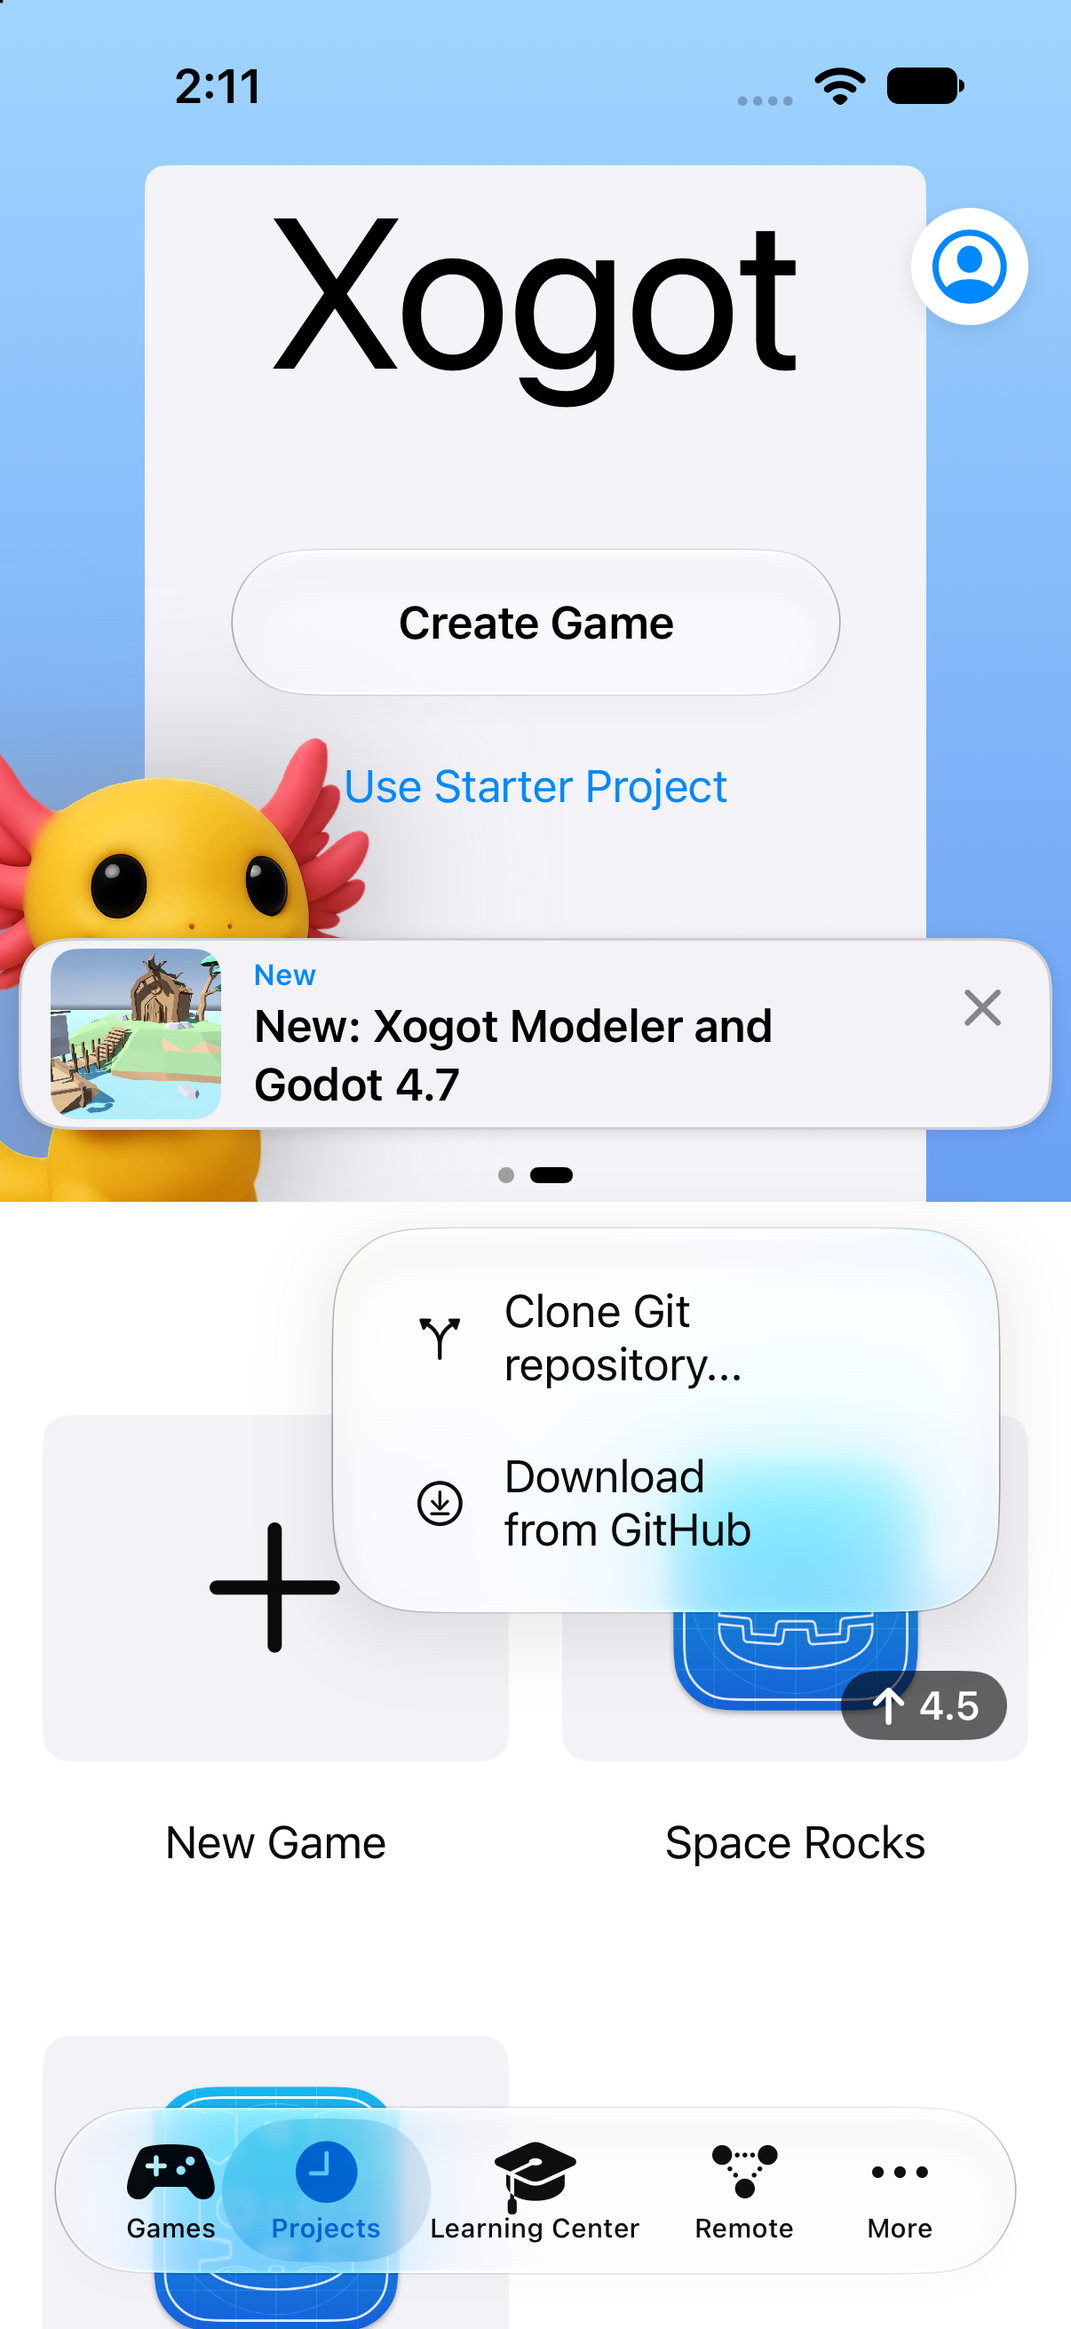
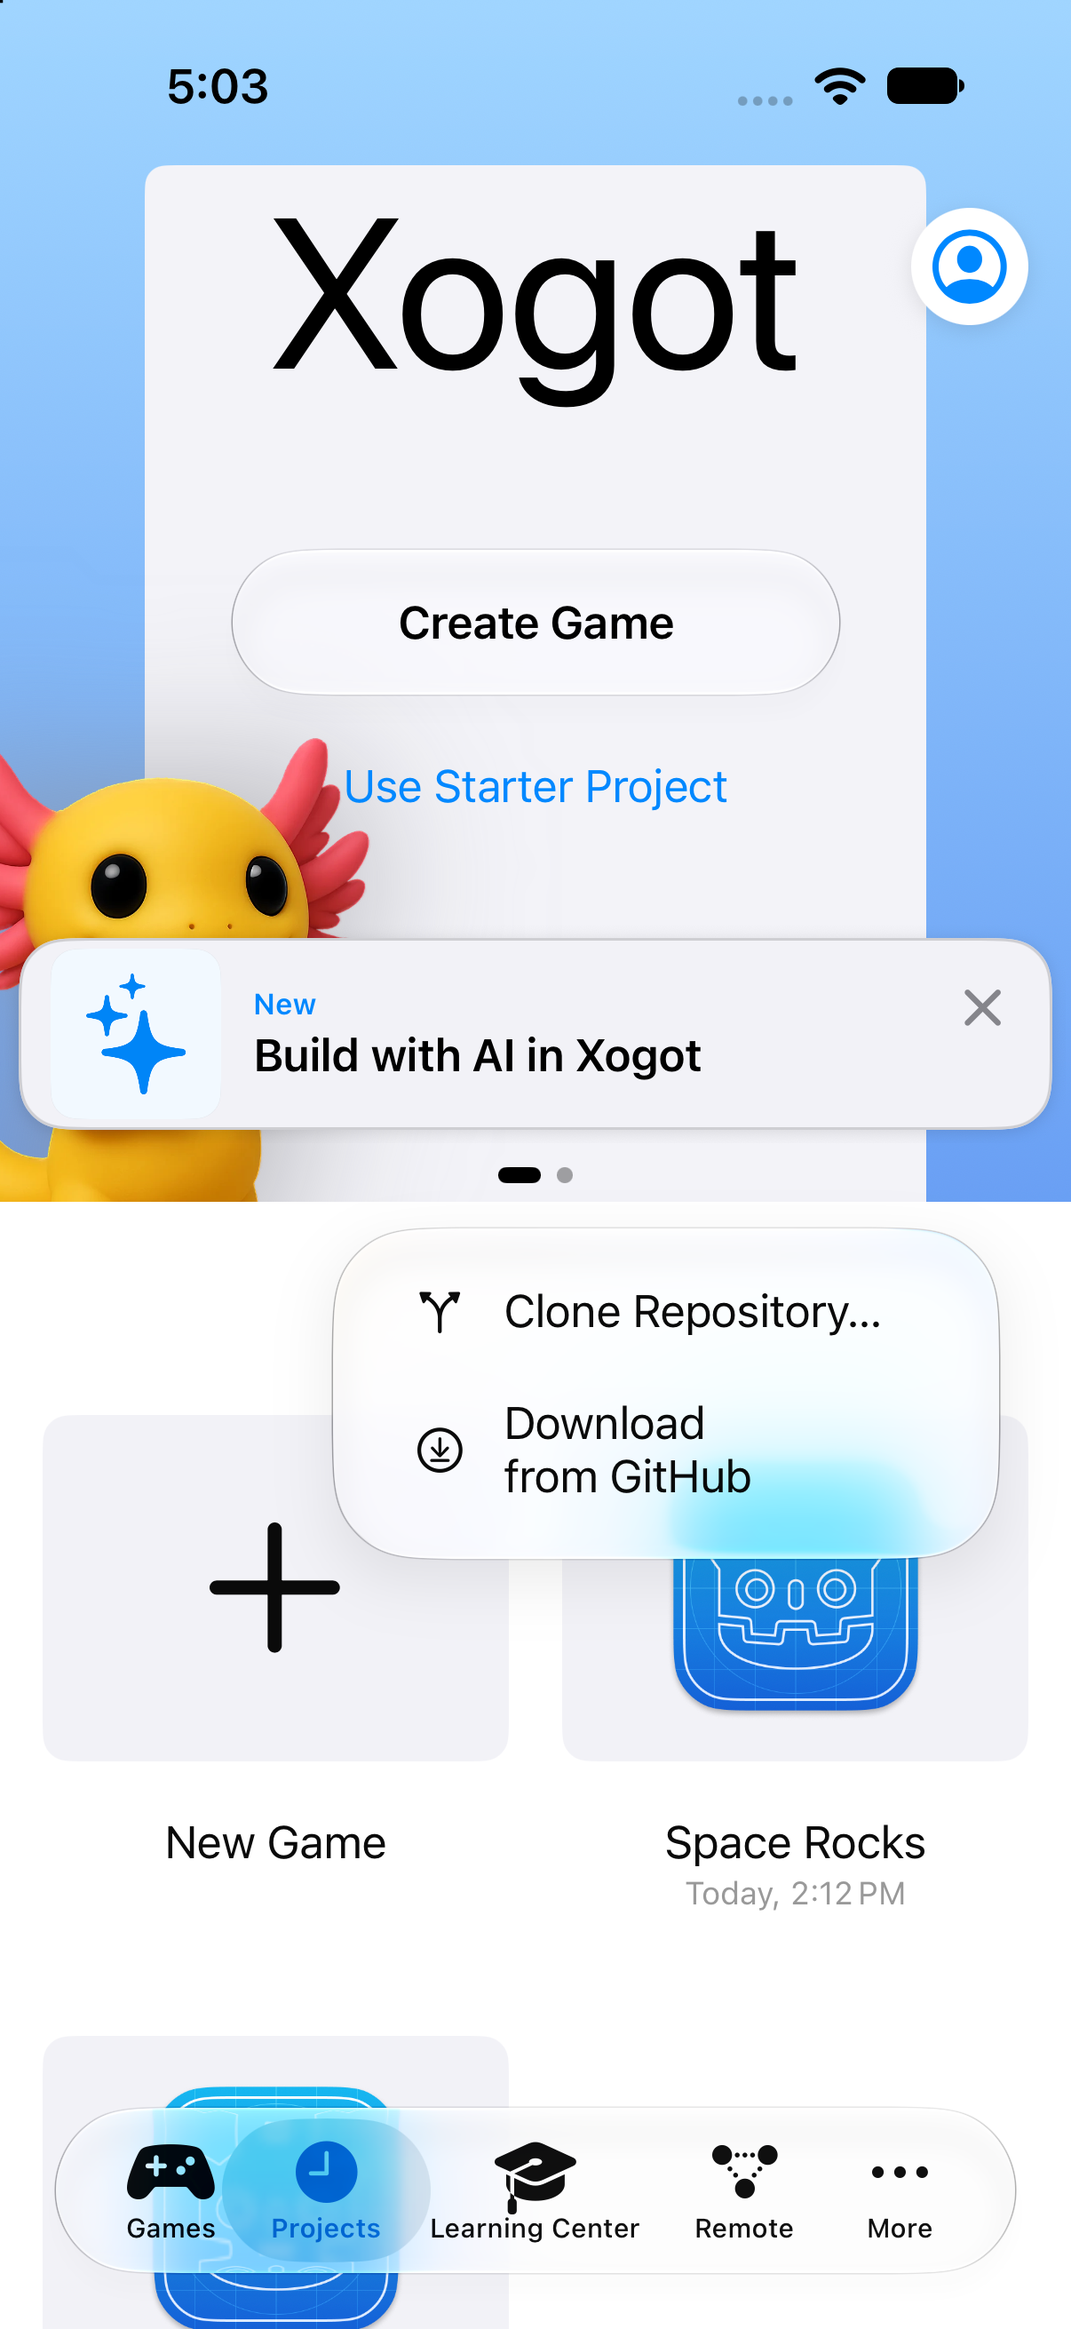
Update docs images

diff --git a/Documentation.docc/iOSSourceControl.md b/Documentation.docc/iOSSourceControl.md
@@ -83,9 +83,10 @@ identity before your first commit:
 3. In **Committer Identity**, type your name and email address.
 4. Tap **Save Identity**.
 
-Xogot uses this identity for all repositories on this device. If you commit
-and there is no identity, Xogot asks for your name and email. Then it saves
-them and makes the commit.
+Xogot uses this identity for all repositories on this device. If there is no
+identity, the commit composer shows **No committer identity** and a **Set…**
+button. If you commit and there is no identity, Xogot asks for your name and
+email. Then it saves them and makes the commit.
 
 @Image(source: "iOSSourceControl-iPad-settings-source-control.png",
        alt: "Xogot Settings on iPad, Source Control page, with the Accounts section, the SSH Keys and Known Hosts link, and the Committer Identity fields.")
@@ -125,7 +126,7 @@ Source Control navigator.
 @TabNavigator {
     @Tab("iPad") {
         @Image(source: "iOSSourceControl-iPad-actions-menu.png",
-               alt: "The Integrate menu open on iPad, with Fetch Changes, Pull, Push, Stage all changes, Unstage all changes, Selected Files, More, Git LFS, and Clone Repository.")
+               alt: "The Integrate menu open on iPad, with Fetch Changes, Pull, Push, Stage All Changes, Unstage All Changes, Selected Files, More, Git LFS, and Clone Repository.")
     }
     @Tab("iPhone") {
         @Image(source: "iOSSourceControl-iPhone-actions-menu.png",
@@ -136,7 +137,7 @@ Source Control navigator.
 The **More** submenu has the commands that you use less frequently:
 
 @Image(source: "iOSSourceControl-iPad-actions-menu-more.png",
-       alt: "The More submenu of the Integrate menu, with Create Pull Request, Discard all changes, Stash Changes, Undo Last Commit, Update All Submodules, Refresh Status, and New Git Repository.")
+       alt: "The More submenu of the Integrate menu, with Create Pull Request, Discard All Changes, Stash Changes, Undo Last Commit, Update All Submodules, Refresh Status, and New Git Repository.")
 
 [The Integrate Menu reference](#Integrate-Menu-Reference) gives all the
 commands.
@@ -146,7 +147,7 @@ commands.
 Clone a repository when the project is already in Git, for example on GitHub.
 
 1. In the project list, tap the Download button (the arrow in a circle).
-2. Tap **Clone Git repository…**.
+2. Tap **Clone Repository…**.
 3. In **Repository URL**, type or paste the URL of the repository. You can use
    an HTTPS URL (`https://github.com/owner/repo.git`) or an SSH URL
    (`git@github.com:owner/repo.git`).
@@ -154,13 +155,13 @@ Clone a repository when the project is already in Git, for example on GitHub.
 5. Optionally, type a branch name.
 6. Tap **Clone**.
 
-You can also clone from an open project: tap ⋯ > **Clone Repository** in the
+You can also clone from an open project: tap ⋯ > **Clone Repository…** in the
 Source Control navigator.
 
 @TabNavigator {
     @Tab("iPad") {
         @Image(source: "iOSSourceControl-iPad-projectlist-clone.png",
-               alt: "The project list on iPad with the Download menu open, showing Clone Git repository and Download from GitHub.")
+               alt: "The project list on iPad with the Download menu open, showing Clone Repository and Download from GitHub.")
     }
     @Tab("iPhone") {
         @Image(source: "iOSSourceControl-iPhone-projectlist-clone.png",
@@ -218,7 +219,7 @@ then show in the Changes tab.
 
 Then make the first commit:
 
-1. Tap ⋯ > **Stage all changes**.
+1. Tap ⋯ > **Stage All Changes**.
 2. Tap a file in the Changes tab to open the commit composer.
 3. Type a commit message, for example `Initial commit`.
 4. Tap **Commit**.
@@ -229,10 +230,12 @@ New Repository](#Publishing-a-New-Repository).
 ## Understanding File Status
 
 The file pad shows a badge next to each changed file. Use the badges to see
-which files you changed, and which new files Git does not track yet.
+which files you changed, and which new files Git does not track yet. A badge is
+a letter in a square. The square is filled when all the changes of the file
+are staged.
 
 @Image(source: "iOSSourceControl-iPad-filepad-badges.png",
-       alt: "The file pad on iPad with an M badge next to player.gd and README.md, and a question mark badge next to enemy.gd.")
+       alt: "The file pad on iPad with an M badge next to player.gd, a filled M badge next to the staged README.md, and a question mark badge next to enemy.gd.")
 
 | Badge | Meaning | What it tells you |
 | --- | --- | --- |
@@ -241,7 +244,7 @@ which files you changed, and which new files Git does not track yet.
 | D | Deleted | A tracked file that you removed. |
 | R | Renamed | A tracked file that you moved or renamed. |
 | ? | Untracked | A new file that Git does not track. The next commit does *not* include it until you add it. |
-| ! | Conflicted | A file with merge conflicts. Resolve them before you continue. |
+| ⚠ | Conflicted | A file with merge conflicts. Resolve them before you continue. |
 
 A file with no badge has no changes after the last commit.
 
@@ -249,24 +252,28 @@ Look carefully for the `?` badge. A new scene, script, or asset is not in a
 commit until you add it. If a person on your team cannot find a file, an
 untracked file is a frequent cause.
 
-The Changes tab shows all the changed files in one list. In the Changes tab, a
-filled badge shows a staged change. If the Changes tab is empty, there is
-nothing to commit.
+The Changes tab shows all the changed files in one list, with the same
+badges. If the Changes tab is empty, there is nothing to commit.
+
+VoiceOver reads the status of each file, for example "Modified, staged".
 
 Touch and hold a changed file in the Changes tab to see its commands:
 
 @Image(source: "iOSSourceControl-iPad-changes-context-menu.png",
-       alt: "The context menu of player.gd in the Changes tab, with Reveal in File Pad, Open, Stage Changes in File, Unstage Changes, Discard Changes, Add, Delete, Resolve Conflicts, and Mark as Resolved.")
+       alt: "The context menu of player.gd in the Changes tab, with Reveal in File Pad, Open, Stage Changes in File, Unstage Changes, Discard Changes in red, Add, Delete, Resolve Conflicts, and Mark as Resolved.")
 
 ## Committing Changes
 
 To open the commit composer, tap a changed file in the Changes tab. The
-composer opens as an editor tab. On iPhone, hide the sidebar to see it.
+composer opens as an editor tab, goes to the diff of that file, and selects it.
+If the filter hides the file, the filter changes to **All**. On iPhone, the
+sidebar closes so that you can see the composer, and the message and the diffs
+scroll together. Thus the diffs can use the full height of the screen.
 
 @TabNavigator {
     @Tab("iPad") {
         @Image(source: "iOSSourceControl-iPad-commit-composer.png",
-               alt: "The commit composer on iPad, with the Amend switch, the Commit button, the commit message, the Signed-off-by switch, the All, Unstaged and Staged filter, Stage All, and the diffs with Stage Hunk and Unstage Hunk buttons.")
+               alt: "The commit composer on iPad, with the committer name and email, the Amend switch, the Commit button, the commit message, the Signed-off-by switch, the All, Unstaged and Staged filter, Stage All, and the diffs with Stage Hunk and Unstage Hunk buttons.")
     }
     @Tab("iPhone") {
         @Image(source: "iOSSourceControl-iPhone-commit-composer.png",
@@ -463,6 +470,22 @@ If the key of a known server changes, the connection fails. This can show an
 attack. Remove the old key from **Known Hosts** only when you know that the
 server changed its key.
 
+### SSH Password Login
+
+Some SSH servers accept a password. If no SSH key works and the server accepts
+a password, Xogot asks for the password:
+
+- **Sign In** uses the password until you close Xogot.
+- **Sign In and Save** keeps the password in the Keychain when the server
+  accepts it.
+
+Xogot asks a maximum of three times for each connection. Servers that accept
+only keys, for example GitHub, never show this prompt.
+
+The **Saved Passwords** section of the SSH page shows the saved passwords.
+Swipe a password to remove it. If the server refuses a saved password, Xogot
+removes it.
+
 ## Publishing a New Repository
 
 After you make a local repository and commit, you can push it to a server.
@@ -475,7 +498,7 @@ Account](#Add-an-Account)).
 
 1. Open the Repositories tab of the Source Control navigator.
 2. Touch and hold **Remotes**.
-3. Tap **New Remote**.
+3. Tap **New Remote…**.
 4. Select the account. Type the repository name, and optionally the owner or
    organization and a description.
 5. Select **Private** or **Public**.
@@ -495,10 +518,12 @@ Use this procedure if the repository already exists on the server.
 6. Tap ⋯ > **Push**.
 
 @Image(source: "iOSSourceControl-iPad-remotes-context-menu.png",
-       alt: "The context menu of the Remotes group, with New Remote and Add Existing Remote.")
+       alt: "The context menu of the Remotes group, with New Remote… and Add Existing Remote….")
 
-Touch and hold a remote to open it on the hosting service (for example, **Show
-in GitHub**), or to delete it.
+Touch and hold a remote to open it on the hosting service (for example, **View
+on GitHub**), or to delete it. **Delete…** asks you to confirm. It removes the
+remote and its remote-tracking branches from your device. The repository on the
+server does not change.
 
 ## Branches, Tags, and History
 
@@ -521,7 +546,7 @@ Touch and hold a branch to see its commands:
 @TabNavigator {
     @Tab("iPad") {
         @Image(source: "iOSSourceControl-iPad-branch-context-menu.png",
-               alt: "The context menu of the feature/shooting branch, with Switch to Branch, Pull, Push, New Branch from, Rename, Tag, Merge into main, and Delete Branch.")
+               alt: "The context menu of the feature/shooting branch, with Switch to Branch, Pull, Push, New Branch from, Rename, Tag, Merge into main, and Delete Branch in red.")
     }
     @Tab("iPhone") {
         @Image(source: "iOSSourceControl-iPhone-branch-context-menu.png",
@@ -531,13 +556,20 @@ Touch and hold a branch to see its commands:
 
 - **Switch to Branch** makes the branch the current branch.
 - **Pull…** and **Push…** sync the current branch with its remote.
-- **New Branch from** makes a branch that starts at this branch.
-- **Rename** changes the name of a local branch.
-- **Tag** makes a tag at this branch.
+- **New Branch from…** makes a branch that starts at this branch.
+- **Rename…** changes the name of a local branch.
+- **Tag…** makes a tag at this branch.
 - **Merge into** merges the branch into the current branch.
 - **Delete Branch…** deletes the branch. Xogot asks you to confirm.
 
 If you switch to a remote branch, Xogot makes a local branch that tracks it.
+
+Touch and hold a tag to see its commands. **Check Out “*tag*” (Detached)**
+checks out the commit of the tag. You are then not on a branch. The tag menu
+also has **New Branch from…**, **Merge into**, and **Delete Tag…**.
+
+@Image(source: "iOSSourceControl-iPad-tag-context-menu.png",
+       alt: "The context menu of the tag v0.1, with Check Out (Detached), New Branch from, Merge into main, and Delete Tag in red.")
 
 ### History
 
@@ -562,7 +594,7 @@ Touch and hold a commit to see its commands:
 | Copy Commit Message | Copies the message of the commit. |
 | Copy Identifier | Copies the full commit hash. |
 | Email *author* | Writes an email to the author of the commit. |
-| Tag | Makes a tag at this commit. |
+| Tag… | Makes a tag at this commit. |
 | New Branch from | Makes a branch that starts at this commit. |
 | Cherry-pick | Applies the changes of this commit to the current branch. |
 | View on *service* | Opens the commit on the hosting service, for example GitHub. |
@@ -578,7 +610,8 @@ branch.
 - To see a stash, tap it in the Repositories tab. It opens in an editor tab.
 - To use the changes again, touch and hold the stash, then tap **Apply Stashed
   Changes**.
-- To remove a stash, touch and hold it, then tap **Delete**.
+- To remove a stash, touch and hold it, then tap **Delete…**. Xogot asks you
+  to confirm.
 
 @Image(source: "iOSSourceControl-iPad-stash.png",
        alt: "The Sound experiments stash open in an editor tab, with the Hierarchy and Flat file list and the diff of README.md.")
@@ -587,8 +620,8 @@ branch.
 
 A merge, rebase, cherry-pick, or pull can stop because of a conflict. A
 conflict occurs when your changes and the incoming changes change the same
-lines. Then Xogot shows a banner at the top of the Changes tab, and a `!`
-badge next to each file with a conflict.
+lines. Then Xogot shows a banner at the top of the Changes tab, and a warning
+triangle next to each file with a conflict.
 
 1. Tap a file with a conflict. The conflict resolver opens.
 2. For each conflict, select your code, the incoming code, or both. To write
@@ -642,6 +675,8 @@ For more information about tracking files and locks, see the Git LFS section of
   Mac version uses the SSH configuration of your Mac.
 - If no account applies to an HTTPS server, Xogot asks for your user name and
   password.
+- If an SSH server accepts a password login and no SSH key works, Xogot asks
+  for the password.
 
 ## Known Limitations
 
@@ -664,7 +699,7 @@ For more information about tracking files and locks, see the Git LFS section of
 | --- | --- |
 | Open the Source Control navigator | Sidebar, fifth button at the bottom |
 | Repository commands | ⋯ button at the top of the Source Control navigator |
-| Clone a repository | Project list > Download > Clone Git repository…, or ⋯ > Clone Repository |
+| Clone a repository | Project list > Download > Clone Repository…, or ⋯ > Clone Repository… |
 | Create a repository | Source Control navigator > Create Git Repository, or ⋯ > More > New Git Repository |
 | Accounts, SSH keys, identity | Settings > Xogot Settings > Source Control |
 | Git LFS sheet | ⋯ > Git LFS… |
@@ -676,29 +711,29 @@ For more information about tracking files and locks, see the Git LFS section of
 | Fetch Changes | Downloads the remote changes. It does not merge them. |
 | Pull | Opens the sync sheet to pull. |
 | Push | Opens the sync sheet to push. |
-| Stage all changes | Stages all the current changes. |
-| Unstage all changes | Removes all the changes from the staging area. |
-| Selected Files > Stage changes in selected files | Uses the selected files in the file pad. |
-| Selected Files > Unstage changes in selected files | Uses the selected files in the file pad. |
-| Selected Files > Mark selected files as resolved | For selected files with conflicts. |
-| Selected Files > Add selected files | For selected untracked files. |
+| Stage All Changes | Stages all the current changes. |
+| Unstage All Changes | Removes all the changes from the staging area. |
+| Selected Files > Stage Changes in Selected Files | Uses the selected files in the file pad. |
+| Selected Files > Unstage Changes in Selected Files | Uses the selected files in the file pad. |
+| Selected Files > Mark Selected Files as Resolved | For selected files with conflicts. |
+| Selected Files > Add Selected Files | For selected untracked files. |
 | More > Create Pull Request | Opens the pull request page of the hosting service. |
-| More > Discard all changes… | Removes all the changes to tracked files. You cannot undo this. |
+| More > Discard All Changes… | Removes all the changes to tracked files. You cannot undo this. |
 | More > Stash Changes | Keeps your uncommitted changes in a stash. |
 | More > Undo Last Commit | Removes the last commit. Its changes stay staged. |
 | More > Refresh Status | Reads the Git status again. |
-| More > New Git Repository | Starts Git in the project folder. |
+| More > New Git Repository | Starts Git in the project folder. Not available when the project is in a repository. |
 | Git LFS… | Opens the Git LFS sheet. |
-| Clone Repository | Opens the Clone Repository sheet. |
+| Clone Repository… | Opens the Clone Repository sheet. |
 
 ### Context Menus
 
 | Item | Commands |
 | --- | --- |
 | Changed file | Reveal in File Pad, Open, Stage Changes in File, Unstage Changes, Discard Changes…, Add, Delete, Resolve Conflicts…, Mark as Resolved. |
-| Branch | Switch to Branch, Pull…, Push…, New Branch from…, Rename…, Tag, Merge into the current branch, Delete Branch…. |
-| Tag | New Branch from…, Tag, Merge into the current branch, Delete Tag…. |
-| Remotes group | New Remote, Add Existing Remote…. |
-| Remote | Show in the hosting service, Delete. |
-| Stash | Apply Stashed Changes, Delete. |
+| Branch | Switch to Branch, Pull…, Push…, New Branch from…, Rename…, Tag…, Merge into the current branch, Delete Branch…. |
+| Tag | Check Out (Detached), New Branch from…, Merge into the current branch, Delete Tag…. |
+| Remotes group | New Remote…, Add Existing Remote…. |
+| Remote | View on the hosting service, Delete…. |
+| Stash | Apply Stashed Changes, Delete…. |
 | Commit (history) | Checkout, Copy Commit Message, Copy Identifier, Email author, Tag…, New Branch from…, Cherry-pick, View on the hosting service. |

diff --git a/Documentation.docc/Releases/Preview-1.md b/Documentation.docc/Releases/Preview-1.md
@@ -2,6 +2,30 @@
 
 Release notes for our preview release of Xogot to TestFlight.
 
+## Build 5650
+
+### Git Improvements
+
+- **repositories can now be opened more flexibly.** Clone repositories that contain a Godot project in a subfolder, and choose which project to add or open when a repository contains several projects. Projects are registered even when you do not open them immediately.
+
+- **Support More Server Types.** Sign in to Forgejo, Gitea, and other Git servers using URL-based HTTPS credentials; Xogot asks for your username and password when needed. SSH URLs are also explained in the clone dialog.
+
+- **Remote branches are easier to use.** Check out a remote branch directly as a local tracking branch.
+
+- **Commits handle missing identity.** If Git has no configured user name or email, Xogot asks for them instead of failing without guidance.
+
+- **Cloning is more robust on iOS.** Clones can continue briefly when you switch apps, report clearly when iOS stops the background task, avoid overwriting existing folders by choosing a numbered destination, and preserve cloned files even when no Godot project is found.
+
+### Agent
+
+- **Image generation.** When using an OpenAI-based model, it is now possible to generate images.
+
+## Bug fixes
+
+- **Cloned projects are now handled consistently.** Projects in nested folders are added to the project list, last-used dates are cleared correctly for newly cloned projects, and the app gives a useful result when a clone has no Godot project.
+
+- **Private Git server credentials are safer.** Insecure `http://` credential URLs are rejected with an explanation, and credential lookup uses the server URL before legacy host credentials.
+
 ## Release 5639
 
 ### Improvements
